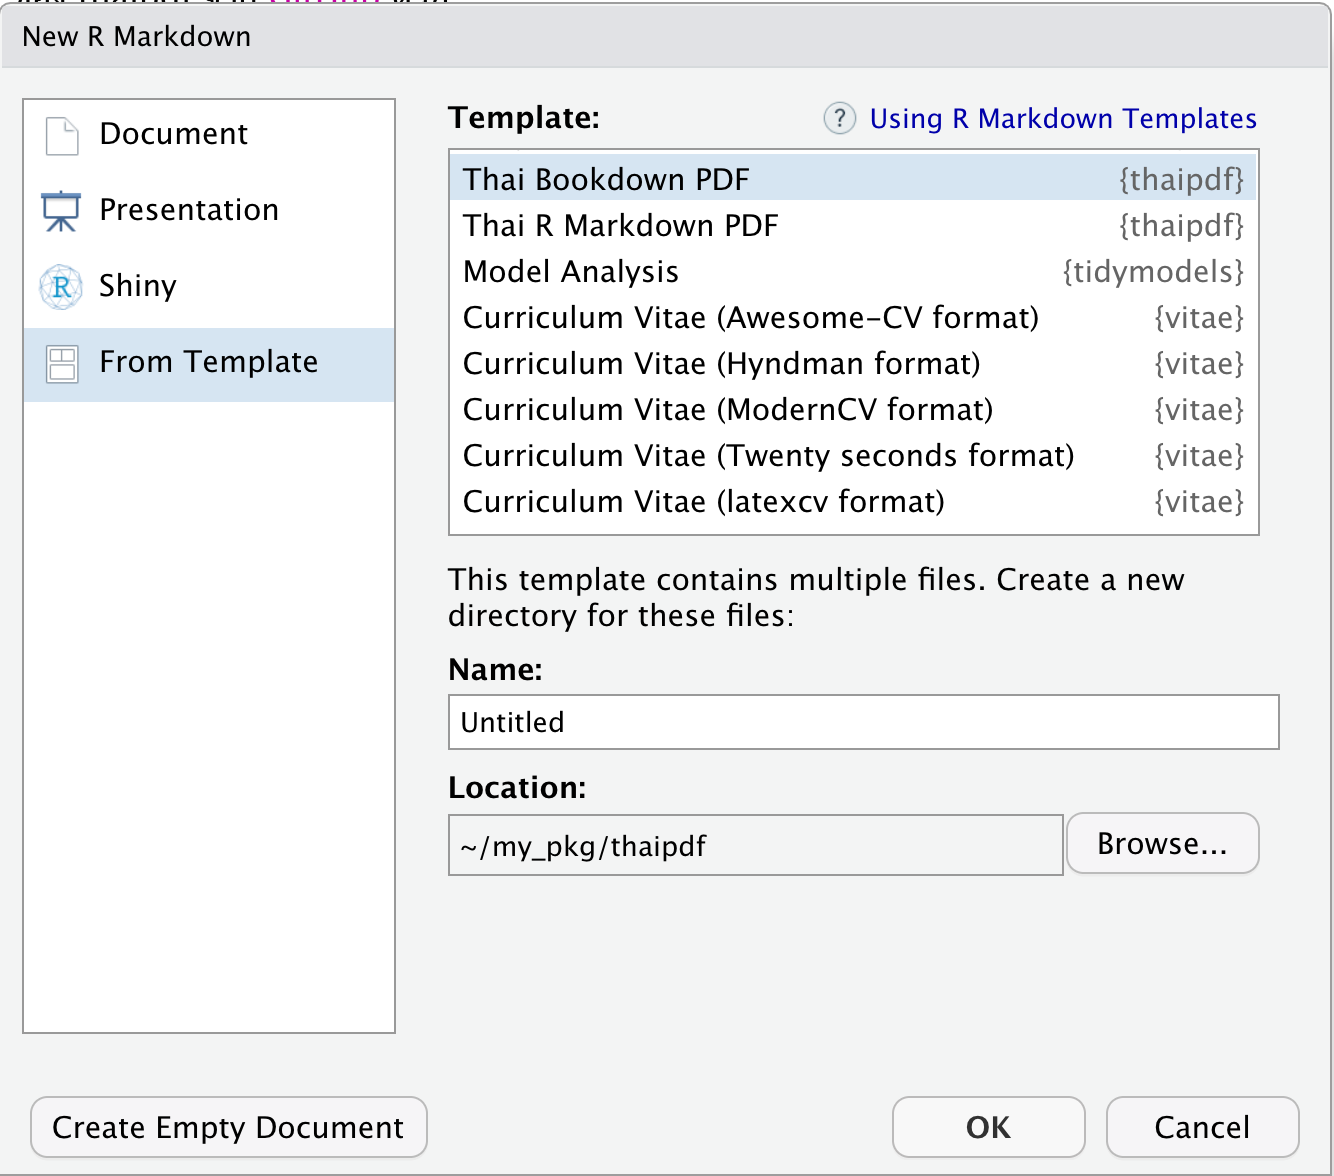
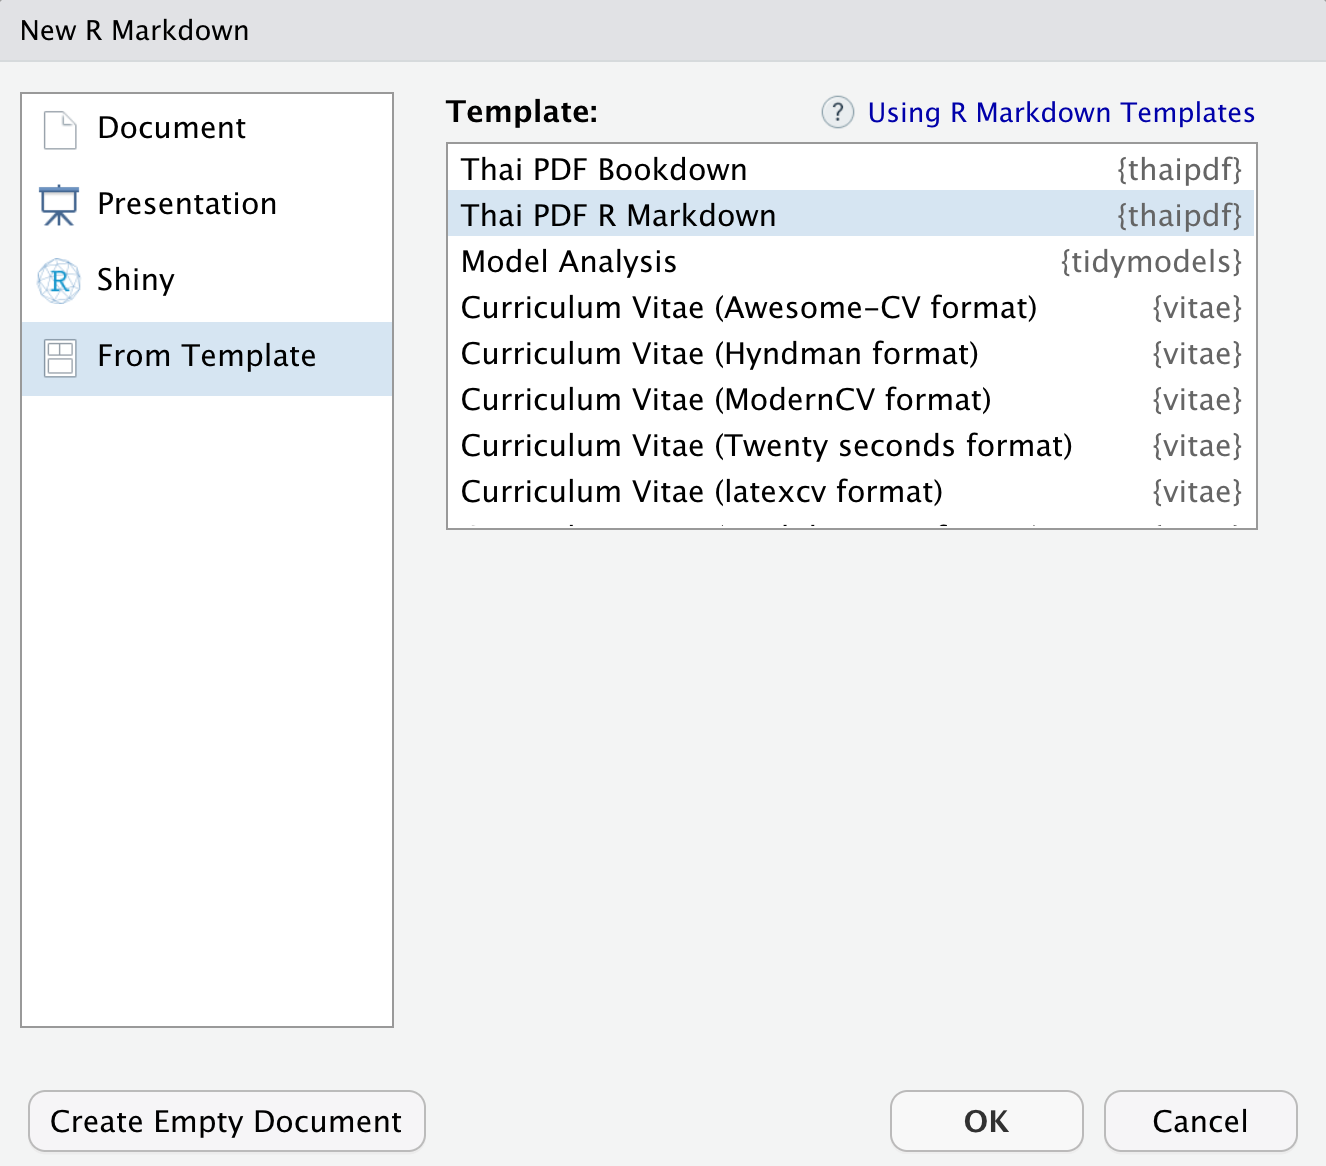
big update to  new version

diff --git a/README.md b/README.md
@@ -14,19 +14,27 @@ experimental](https://img.shields.io/badge/lifecycle-experimental-orange.svg)](h
 > R package :package: นี้จะช่วยให้สร้าง PDF document จาก R Markdown
 > ที่ใช้ **ภาษาไทย** ได้ง่ายขึ้น
 
-| 1                                                      | 2                                                      |
-|:-------------------------------------------------------|:-------------------------------------------------------|
-| ![Thai book sample 1](man/figures/book-th-sample1.png) | ![Thai book sample 2](man/figures/book-th-sample2.png) |
+| 1                                                   | 2                                                   |
+|:----------------------------------------------------|:----------------------------------------------------|
+| ![Thai book example 1](man/figures/book-th-ex1.png) | ![Thai book example 2](man/figures/book-th-ex2.png) |
 
 ### Contents
 
--   [เกริ่นนำ (Introduction)](#Introduction)
+-   [เกริ่นนำ (Introduction)](#introduction)
 
--   [วิธีการติดตั้ง (Installation)](#Installation)
+-   [วิธีการติดตั้ง
+    (](#Installation)[Installation](#installation)[)](#Installation)
 
--   [วิธีการใช้งาน (Usage)](#Usage)
+-   [วิธีการใช้งานเบื้องต้น (Basic Usage)](#basic-usage)
 
--   [แหล่งอ้างอิง (References)](#References)
+    -   [แบบเอกสารเดี่ยว (Stand-alone R Markdown
+        Template)](#stand-alone-r-markdown-template)
+
+    -   [การตั้งค่าภาพรวม (Global Setting)](#global-setting)
+
+-   [วิธีการใช้งานขั้นสูง (Advance Usage)](#advance-usage)
+
+-   [แหล่งอ้างอิง (References)](#references)
 
 # Introduction
 
@@ -38,7 +46,7 @@ experimental](https://img.shields.io/badge/lifecycle-experimental-orange.svg)](h
 
 ### Problem
 
-ถ้าท่านได้ลองพิมพ์ภาษาไทยใน R Markdown แล้ว knit เป็น pdf_document
+ถ้าท่านได้ลองพิมพ์ภาษาไทยใน R Markdown แล้ว knit เป็น `pdf_document`
 จะพบว่าเกิด error ขึ้น
 
     Error: LaTeX failed to compile something.tex.
@@ -90,9 +98,9 @@ tinytex::tlmgr_install(c(
     New](https://www.f0nt.com/release/th-sarabun-new/)
     ถ้าไม่มีให้ติดตั้งด้วย (เนื่องจาก thaipdf ใช้ font นี้เป็นตัวหลัก)
 
-# Usage
+# Basic Usage
 
-## Option 1: From R Markdown Template
+## Stand-alone R Markdown Template
 
 วิธีใช้ที่ง่ายที่สุด คือสร้าง R Markdown ที่รองรับภาษาไทยจาก template
 ที่ package นี้มีให้
@@ -102,15 +110,110 @@ tinytex::tlmgr_install(c(
 
 <img src="man/figures/rmd-from-temp.png" alt="New R Markdown Template" width="500"/>
 
-เลือก template อย่างใดอย่างหนึ่ง
+เลือก template **Thai PDF R Markdown** หรือ **Thai PDF Bookdown**
+จากเมนู
 
--   **Thai R Markdown PDF** — ใช้
+กดปุ่ม **`OK`** จะเปิดไฟล์ R Markdown template ที่รองรับกับภาษาไทย
+
+<img src="man/figures/rstudio-rmd.png" alt="thaipdf R Markdown in RStudio" width="600"/>
+
+จากนั้นกดปุ่ม **`Knit`** (cmd/ctr + shift + K) ได้เลย จะได้เอกสารเป็น
+PDF ภาษาไทยที่มี เนื้อหา โค้ด และ กราฟ อยู่รวมกัน
+
+![ตัวอย่าง R Markdown PDF ภาษาไทย](man/figures/pdf-doc-1.png)
+
+โปรดสังเกตุว่าการที่ภาษาไทยใช้งานได้นั้น เนื่องจากมีการตั้งค่า YAML
+header ในส่วน
+
+``` yaml
+output: thaipdf::thaipdf_document
+```
+
+โดยที่ template ของ thaipdf ทั้ง 2 แบบ
+
+-   **Thai PDF R Markdown** — ใช้ output เป็น `thaipdf_document()`
+    ซึ่งเป็น wrapper ของ
     [`pdf_document()`](https://pkgs.rstudio.com/rmarkdown/reference/pdf_document.html)
-    สร้าง output หรือ
+    ที่สามารถรองรับ**ภาษาไทย**ได้ สำหรับการใช้งานอย่างง่าย หรือ
 
--   **Thai Bookdown PDF** — ใช้
-    [`bookdown::pdf_document2()`](https://pkgs.rstudio.com/bookdown/reference/html_document2.html)
-    สร้าง output ซึ่งจะสร้างสารบัญได้ และทำ cross-referencing ได้ดีกว่า
+-   **Thai PDF Bookdown** — ใช้ output เป็น `thaipdf_book()` ซึ่งเป็น
+    wrapper ของ
+    [`bookdown::pdf_book()`](https://pkgs.rstudio.com/bookdown/reference/pdf_book.html)
+    ที่สามารถรองรับ**ภาษาไทย**ได้ และมี feature ของ bookdown
+    ที่เหมาะสำหรับการเขียน technical report หรือ
+    หนังสือที่มีการวิเคราะห์ข้อมูล
+
+เนื่องจากที่ทั้ง 2 function ของ thaipdf นี้ (`thaipdf_document()`,
+`thaipdf_book()`) สามารถส่ง argument อื่นๆต่อไปยัง
+[`pdf_document()`](https://pkgs.rstudio.com/rmarkdown/reference/pdf_document.html)
+หรือ
+[`bookdown::pdf_book()`](https://pkgs.rstudio.com/bookdown/reference/pdf_book.html)
+ได้ ดังนั้นเราจึงสามารถ customize เพิ่มเติม โดยใส่ metadata อื่นๆ ใน
+output field ของ YAML header ที่ 2 function หลังนี้ยอมรับได้เลย เช่น
+
+``` yaml
+title: "R Markdown ภาษาไทย"
+author: "`thaipdf` package"
+date: "16/02/2022"
+fontsize: 10pt
+output: 
+  thaipdf::thaipdf_document:
+    toc: true
+    keep_tex: true
+```
+
+คือ ตั้งค่าขนาด `font` เท่ากับ 10pt คือกำหนดให้มีสารบัญ (`toc: true`)
+และเก็บ intermediate LaTeX ไฟล์ไว้ด้วย (`keep_tex: true`)
+
+## Global Setting
+
+`{thaipdf}` มี global setting ที่เก็บไว้ในตัว package
+ไว้สำหรับตั้งค่าเอกสารต่างๆ โดยมีคำสั่ง
+
+-   **`thaipdf::thaipdf_config_get()`** ไว้เรียกดูการตั้งค่า global
+    setting และ
+
+-   **`thaipdf::thaipdf_config_set()`** ไว้ตั้งค่า global setting
+    ซึ่งในขณะนี้มี option เดียวคือ การตั้งค่าชนิดฟอนท์ภาษาไทยที่ต้องการ
+    (default font จะเป็น “TH Sarabun New”) โดยใช้ argument `thai_font`
+
+``` r
+library(thaipdf)
+```
+
+ดูการตั้งค่า
+
+``` r
+# View Global Configuration
+thaipdf_config_get() 
+#> 
+#> ── thaipdf Global Setting ──
+#> 
+#> • Thai font setting is "TH Sarabun New"
+```
+
+เปลี่ยน font เป็น “Laksaman”
+
+``` r
+# Change Thai font to "Laksaman"
+thaipdf_config_set(thai_font = "Laksaman")
+#> ✓ Setting thaipdf global configuration
+#> 
+#> ── thaipdf Global Setting ──
+#> 
+#> • Thai font setting is "Laksaman"
+```
+
+------------------------------------------------------------------------
+
+# Advance Usage
+
+## R Markdown Template with LaTeX preamble
+
+สำหรับผู้ที่ใช้ LaTeX เป็น และต้องการ customize หลายสิ่งกับ LaTeX
+ให้ลองเลือก template ที่ชื่อว่า `Thai PDF R Markdown (with preamble)`
+
+<img src="man/figures/rmd-from-temp-preamble.png" alt="New R Markdown Template with Preamble" width="500"/>
 
 จากนั้นใส่ชื่อไฟล์และตำแหน่งที่ให้สร้างที่ช่อง **Name** กับ **Location**
 แล้วคลิก **OK**
@@ -126,26 +229,36 @@ Name ไป)
            |
            |--> thai-preamble.tex
 
-(ใน folder จะมี R Markdown file ที่มี YAML header ที่ตั้งค่าต่างๆ
-ไว้ให้แล้ว โดยใช้ LaTeX preamble จาก `preTeX/thai-preamble.tex`
-แทรกเข้ามาด้วย)
+ใน folder จะมี R Markdown file ที่มี YAML header ที่ตั้งค่าที่สำคัญคือ:
 
-สุดท้ายให้ไปที่ R Markdown ไฟล์ จากนั้นกดปุ่ม **Knit** (cmd/ctr +
-shift + K) ได้เลย จะได้เอกสารเป็น PDF ภาษาไทยที่มี เนื้อหา โค้ด และ
-กราฟอย่างสวยงาม
+``` yaml
+output:
+  pdf_document:
+    latex_engine: xelatex  # จำเป็นต้องใช้ xelatex สำหรับภาษาไทย
+    includes:
+      in_header: "preTeX/thai-preamble.tex" # path ไปยัง preamble ที่มีปรับให้ใช้ภาษาไทยได้
+```
 
-![ตัวอย่าง R Markdown PDF ภาษาไทย](man/figures/rmd-th-sample.png)
+-   **`latex_engine`** เป็น “xelatex” เพื่อให้ใช้ภาษาไทยได้
 
-(ภาพตัวอย่างจาก Thai R Markdown PDF)
+-   **`includes`** คือการนำไฟล์ LaTeX preamble
+    ที่ตั้งค่าให้ใช้ภาษาไทยได้ (`thai-preamble.tex`) มาแทรกใน preamble
+    header (`in_header`) ของ output LaTeX อีกที ก่อนที่จะ compile เป็น
+    PDF
 
-## Option 2: Create LaTeX preamble for Thai Language
+ดังนั้นเราจึงสามารถเขียน LaTeX เพิ่มเติม หรือ load package
+และตั้งค่าอื่นๆ ในไฟล์ `thai-preamble.tex` ได้อีกด้วย เช่นทำ link
+ให้มีสี (เหมือนภาพแรกสุดที่แสดง)
+
+## Use LaTeX preamble for Thai Language
 
 ทางเลือกนี้สำหรับผู้ที่มีไฟล์ R Markdown อยู่แล้ว
 แต่ต้องการปรับให้ใช้กับภาษาไทยได้ โดยหลักการคือจะต้องใช้ LaTeX engine
 เป็น xelatex และใช้ LaTeX preamble ที่มี package และคำสั่งต่างๆ สำหรับ
 type setting ภาษาไทย
 
-ฟังก์ชั่น **`thaipdf::use_thai_preamble()`** จะทำการ
+ฟังก์ชั่น **`thaipdf::use_thai_preamble()`** ถูกออกแบบในทำนอง [usethis
+package](https://usethis.r-lib.org) โดยจะทำการ
 
 -   **สร้างไฟล์ LaTeX preamble** ชื่อว่า `thai-preamble.tex` (default)
     โดยจะมีการเรียกใช้ LaTeX package และคำสั่งต่างๆ
@@ -158,7 +271,7 @@ header](https://bookdown.org/yihui/rmarkdown-cookbook/rmarkdown-anatomy.html)**
 [`pdf_document:`](https://pkgs.rstudio.com/rmarkdown/reference/pdf_document.html)
 หรือ
 [`bookdown::pdf_document2:`](https://pkgs.rstudio.com/bookdown/reference/html_document2.html)
-ดังนี้
+ซึ่งต้องทำเอง ดังนี้
 
 -   ตั้ง `latex_engine: xelatex`
 
@@ -171,23 +284,15 @@ header](https://bookdown.org/yihui/rmarkdown-cookbook/rmarkdown-anatomy.html)**
 
 ``` r
 thaipdf::use_thai_preamble()
-#> ✓ Setting active project to '/Users/kittipos/my_pkg/thaipdf'
-#> ✓ Writing 'thai-preamble.tex'
-#>   - Thai font was set to 'TH Sarabun New' in the preamble.
-#> 
+#> ✓ Writing "thai-preamble.tex" at '/Users/kittipos/my_pkg/thaipdf/thai-preamble.tex'
+#> ✓ Thai font was set to "TH Sarabun New" in the preamble.
 #> 
 #> ── TODO ────────────────────────────────────────────────────────────────────────
-#> 
 #> For YAML header of R Markdown in `pdf_document:` or `bookdown::pdf_document2:`
-#> 
 #> • Set `latex_engine` to `xelatex`
-#> 
 #> • Set to include the path to LaTeX preamble
 #> 
-#> 
-#> 
 #> ── Like This ───────────────────────────────────────────────────────────────────
-#> 
 #>     latex_engine: xelatex
 #>     includes:
 #>       in_header: thai-preamble.tex
@@ -238,13 +343,10 @@ output:
 
 # Todo
 
--   [ ] Stand-alone R Markdown for Thai (no preamble file created) NOT
-    sure good idea ???
-
 -   [ ] Write unit test
 
 -   [ ] PKG down site
 
 ------------------------------------------------------------------------
 
-Last Updated: 2022-02-13
+Last Updated: 2022-02-16
